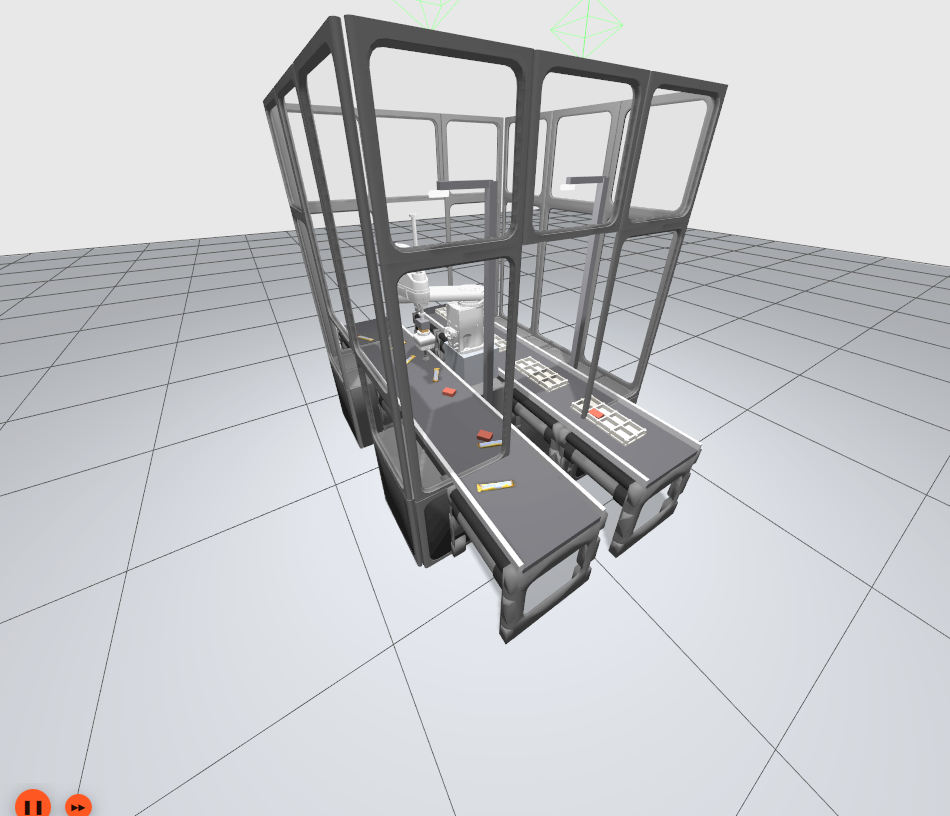
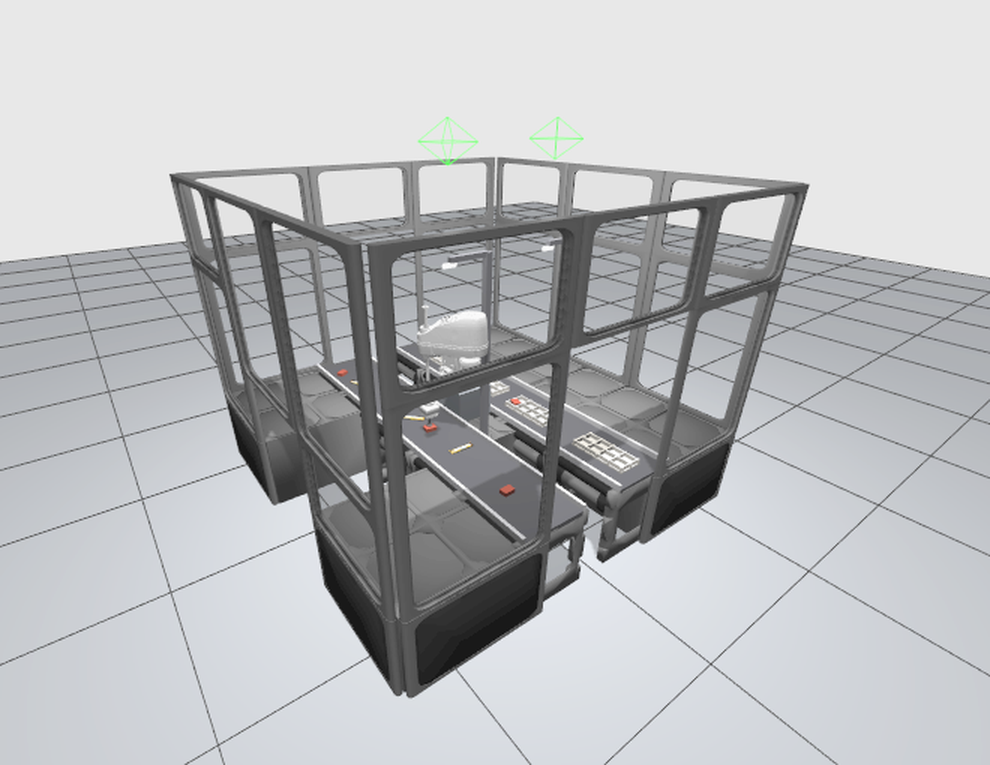
README: cell image after the polish pass, before/after demo GIFs with placement accuracy numbers

diff --git a/README.md b/README.md
@@ -24,9 +24,13 @@ See [THIRD_PARTY_NOTICES.md](THIRD_PARTY_NOTICES.md).
 
 ## Demos
 
-| Continuous vision-driven pick & place from the moving belts (before the 2026-08-22 polish pass) |
-|---|
-| ![demo before](docs/media/demo_before.gif) |
+| Before the polish pass (2026-08-22) | After: enclosure moved off the belts, smoother arm, gentler belts, occlusion-gated tracking |
+|---|---|
+| ![demo before](docs/media/demo_before.gif) | ![demo after](docs/media/demo_after.gif) |
+
+Both: continuous vision-driven pick & place from the *moving* belts (YOLO11n-seg → pick poses → conveyor tracker →
+`TRACK_CART` motions), recorded live from Gazebo. Placement accuracy (product vs pocket centre, ground truth):
+GT perception 8.6 mm / 0.2°, vision 14.6 mm / 3.7° (10/10 cycles).
 
 ## Quick start (native)
 
